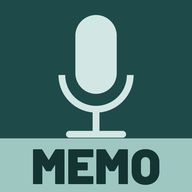
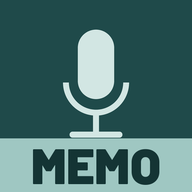
Add files via upload

Changed region(s): [[0.2812, 0.0625, 0.7188, 0.7188]]

diff --git a/index.html b/index.html
@@ -104,7 +104,7 @@
 </style>
 </head>
 <body>
-<div id="titolo"><h1><svg viewBox="5 2 14 19" aria-hidden="true"><path d="M12 14a3 3 0 0 0 3-3V5a3 3 0 0 0-6 0v6a3 3 0 0 0 3 3zm5-3a5 5 0 0 1-10 0H5a7 7 0 0 0 6 6.92V21h2v-3.08A7 7 0 0 0 19 11h-2z"/></svg>Memo</h1><span id="versione">v1.4.1</span></div>
+<div id="titolo"><h1><svg viewBox="5 2 14 19" aria-hidden="true"><path d="M12 14a3 3 0 0 0 3-3V5a3 3 0 0 0-6 0v6a3 3 0 0 0 3 3zm5-3a5 5 0 0 1-10 0H5a7 7 0 0 0 6 6.92V21h2v-3.08A7 7 0 0 0 19 11h-2z"/></svg>Memo</h1><span id="versione">v1.4.2</span></div>
 
 <div id="area" role="button" aria-label="Tocca per registrare o fermare">
   <div id="cerchio">
@@ -117,7 +117,7 @@
 
 <div id="elenco">
   <div id="testaElenco">
-    <button id="btnIndietro">Indietro</button>
+    <button id="btnIndietro">Home</button>
     <h1>Memo salvati</h1>
   </div>
   <div id="lista"></div>
@@ -132,7 +132,7 @@
 </div>
 
 <script>
-const VERSIONE = '1.4.1';
+const VERSIONE = '1.4.2';
 const DURATA_MAX = 5 * 60; // secondi: oltre questo tempo si ferma e salva da sola
 
 /* ---------- Archivio (IndexedDB) ---------- */

diff --git a/sw.js b/sw.js
@@ -1,6 +1,6 @@
 // Cambiare il numero a ogni aggiornamento dell'app
-const CACHE = 'memo-v1.4.1';
-const FILE = ['./', 'index.html', 'manifest.json', 'icon-192.png', 'icon-512.png'];
+const CACHE = 'memo-v1.4.2';
+const FILE = ['./', 'index.html', 'manifest.json', 'icon-192.png', 'icon-512.png', 'icon-maskable-512.png'];
 
 self.addEventListener('install', e => {
   e.waitUntil(caches.open(CACHE).then(c => c.addAll(FILE)));

diff --git a/RIASSUNTO.md b/RIASSUNTO.md
@@ -1,6 +1,6 @@
 # Memo – PWA per memo vocali (ipovedenti)
 
-**Versione:** 1.4.1 · **Repository previsto:** forrom58/memo · **URL:** https://forrom58.github.io/memo/
+**Versione:** 1.4.2 · **Repository previsto:** forrom58/memo · **URL:** https://forrom58.github.io/memo/
 
 ## Scopo
 Registrare brevi memo audio fuori casa **senza guardare lo schermo** e riascoltarli a casa.
@@ -24,7 +24,8 @@ Registrare brevi memo audio fuori casa **senza guardare lo schermo** e riascolta
 - **Calendario (dalla v1.1.0):** scritta "Calendario" (#9fb39a) tra Ascolta ed Elimina. Crea un evento già compilato (titolo = nome del memo, oppure "Memo del …"; nota = data del memo). v1.1.0: intent `android.intent.action.INSERT` → non funziona da Chrome (apriva Google Calendar nel browser). v1.1.1: intent verso il pacchetto `com.google.android.calendar` con l'indirizzo `calendar.google.com/calendar/render?action=TEMPLATE…`; se l'app non lo accetta apre la versione web. Esito sul Realme: **funziona**, si apre l'app con l'evento compilato. Data e ora dell'evento si scelgono nel calendario.
 
 ## File (ordine alfabetico)
-- icon-192.png, icon-512.png – icona secondo lo standard di ICONE-DELLE-MIE-APP.md: fascia da y=369, "MEMO" in Barlow Black 132 px (base y=491); sfondo #1F4A4A, fascia #9FC7C2, scritta #143434, microfono #D2E6E3 (linee 18 px, appoggiato sulla fascia)
+- icon-192.png, icon-512.png – icona secondo lo standard di ICONE-DELLE-MIE-APP.md: fascia da y=369, "MEMO" in Barlow Black 132 px (base y=491); sfondo #1F4A4A, fascia #9FC7C2, scritta #143434, microfono #D2E6E3 (linee 18 px, appoggiato sulla fascia; dalla v1.4.2 rimpicciolito all'88% con la base ferma su y=367, cima a y≈79)
+- icon-maskable-512.png – (dalla v1.4.2) icona al 78% centrata con margini dei suoi colori (sopra #1F4A4A, sotto #9FC7C2), come TELE; nel manifest con `"purpose": "maskable"` per avere angoli arrotondati anche nello splash
 - index.html – tutta l'app (HTML, CSS, JS)
 - manifest.json – nome breve "Memo", sfondo scuro #0f1a1a (evita il lampo chiaro)
 - RIASSUNTO.md – questo file
@@ -33,7 +34,7 @@ Registrare brevi memo audio fuori casa **senza guardare lo schermo** e riascolta
 ## Dati tecnici
 - Audio: MediaRecorder, formato webm/opus.
 - Archivio: IndexedDB `memo-db`, tabella `memo` (id, data, secondi, audio). I memo restano **solo sul telefono**: disinstallando l'app o cancellando i dati del sito si perdono.
-- Colori interfaccia (dalla v1.2.0, variante "B" col verde dell'icona): sfondo #0f1a1a, cerchio (dalla v1.3.1, sul modello dell'utente) 150 px con fondo quasi nero #030505, anello 5 px e microfono pieno #9FC7C2, alone ampio e sfumato (4 box-shadow); in registrazione anello e microfono rosso #c26a6a con alone rosso; scritta "Tocca per registrare" #9fbdb9, pulsante "Ascolta i memo" #16302f con bordo #1F4A4A e testo #9FC7C2; pannelli #1c2328, testo #a9b4bb, registrazione in rosso scuro #7a2e2e. Elenco memo: sfondo #08090a, riquadri #27323a senza bordo, pulsante "Indietro" dello stesso grigio #27323a, compatti; "Ascolta" (#8fb3c2) ed "Elimina" (#c27a7a) sono solo scritte cliccabili in grassetto, senza pulsante; memo in ascolto con riquadro #31424d. Niente giallo, niente superfici chiare.
+- Colori interfaccia (dalla v1.2.0, variante "B" col verde dell'icona): sfondo #0f1a1a, cerchio (dalla v1.3.1, sul modello dell'utente) 150 px con fondo quasi nero #030505, anello 5 px e microfono pieno #9FC7C2, alone ampio e sfumato (4 box-shadow); in registrazione anello e microfono rosso #c26a6a con alone rosso; scritta "Tocca per registrare" #9fbdb9, pulsante "Ascolta i memo" #16302f con bordo #1F4A4A e testo #9FC7C2; pannelli #1c2328, testo #a9b4bb, registrazione in rosso scuro #7a2e2e. Elenco memo: sfondo #08090a, riquadri #27323a senza bordo, pulsante "Home" (prima "Indietro", rinominato nella v1.4.2) dello stesso grigio #27323a, compatti; "Ascolta" (#8fb3c2) ed "Elimina" (#c27a7a) sono solo scritte cliccabili in grassetto, senza pulsante; memo in ascolto con riquadro #31424d. Niente giallo, niente superfici chiare.
 
 ## Aggiornare l'app
 1. Cambiare `VERSIONE` in index.html e il testo `v…` in alto a destra.
